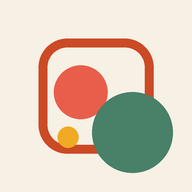
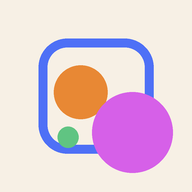
Appikonet i fargene fra maleriet
Kobolt ramme på kremhvit, oransje sol og magenta som bryter ut av rammen,
med en grønn prikk. Fargene er hentet rett ut av bildet Trond sendte.

Changed region(s): [[0.1875, 0.1875, 0.9062, 0.9062]]

diff --git a/lag_ikon.py b/lag_ikon.py
@@ -1,7 +1,8 @@
 """Tegner appikonet i alle størrelsene som trengs.
 
 Motivet: en ramme med to lerret inni, der det ene bryter ut av rammen, og en
-liten prikk som gir en tredje størrelse. Kjøres når ikonet skal endres:
+liten prikk som gir en tredje størrelse. Fargene er hentet fra et maleri –
+kobolt, oransje sol, magenta og grønt. Kjøres når ikonet skal endres:
 
     .venv/bin/python lag_ikon.py
 """
@@ -10,10 +11,10 @@ from PIL import Image, ImageDraw
 OPPTEGNING = 4          # tegnes opp og skaleres ned, for myke kanter
 
 PAPIR    = (247, 240, 229)
-RAMME    = (204, 74, 38)
-LERRET_1 = (233, 94, 74)
-LERRET_2 = (72, 128, 104)
-PRIKK    = (240, 170, 35)
+RAMME    = (78, 112, 246)
+LERRET_1 = (232, 136, 52)
+LERRET_2 = (214, 96, 232)
+PRIKK    = (96, 196, 130)
 
 
 def tegn(storrelse: int) -> Image.Image:
